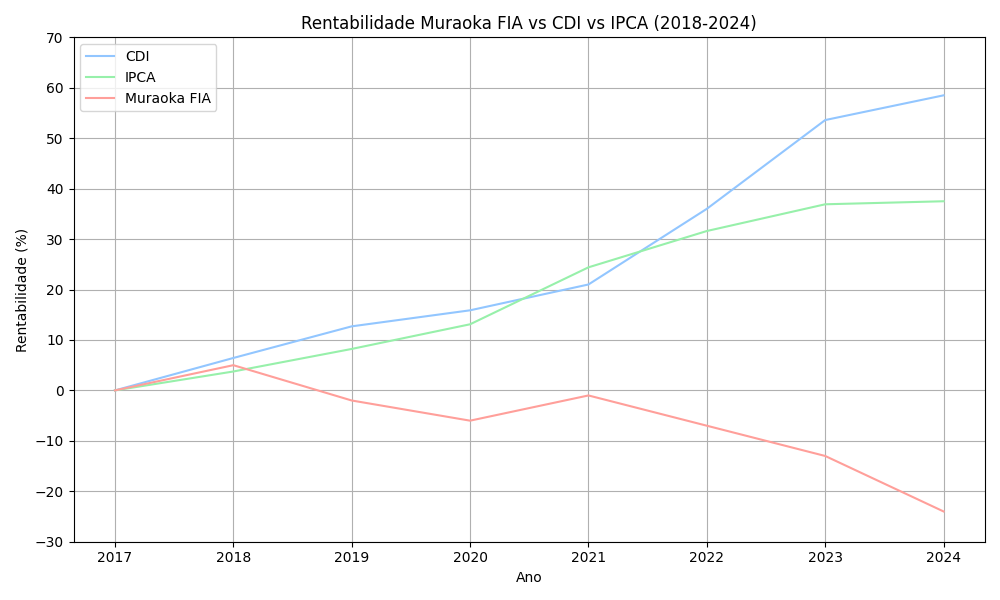
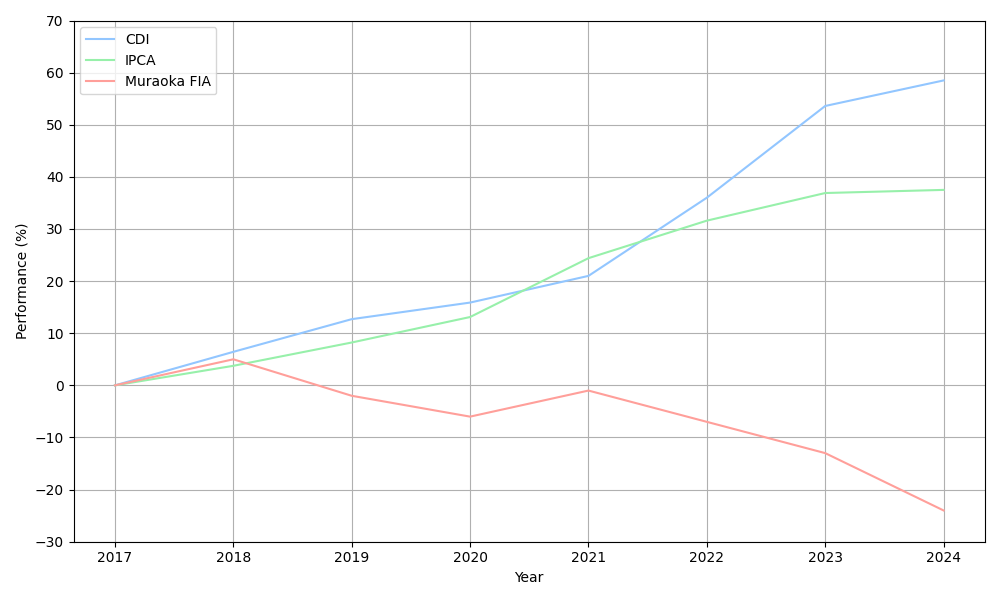
Finished Index

diff --git a/templates/index.html b/templates/index.html
@@ -17,9 +17,63 @@
     </p>
 
     <div>
-        <img src="{{ url_for('static', filename='images/Rentabilidade.png')}}" class="graficorentabilidade" alt="Rentabilidade do fundo">
+        <div>
+            <h2 class="titulo-grafico"> Fund performance against brazilian benchmarks (CDI and IPCA) </h2>
+        </div>
+        <div>
+            <img src="{{ url_for('static', filename='images/Rentabilidade.png')}}" class="graficorentabilidade" alt="Rentabilidade do fundo">
+        </div>
     </div>
 
+    <div class="desc">
+        <p class="pindex">
+            This investment fund target excellent brazilians companies listed at Bovespa, always seeking a good balance between risk and returns, even though high yields
+            investment is in our blood and our phylosophy. Muraoka FIA gathers the most famous and prestigious institutions in Brazil and brings this diversification
+            to the average-customer. As Peter Lynch said - "Its better to make a good deal in a good price than an excellent deal in a bad price", and taking his advice, 
+            our fund is recommended by analysts due to the fact we are currently at the All Time Low, just waiting for the expected turn-around. As it shows, the current
+            performance couldn't beat both the benchmarks, so our analysts team are willingfull to share the following message to all those interested:
+        </p>
+    </div>
+
+    <div class="desc">
+        <p class="pindex">
+            <div style="text-align: center;"> " The performance is a detail, sometimes it is more about the journey than anything else, we trust the companies, we trust the process, we trust in miracles after all. " </div>
+            <div style="text-align: center;"> " We are expecting to get better results as soon as the brazilian DI starts to receed, which has happened but not enought to help the narrative to grow "</div>
+            <div style="text-align: center;"> " We lost to both CDI and IPCA due to the fact that thwy never performance at negative rates, so it's basically impossible to beat an enemy who never loses "</div>
+            <div style="text-align: center; margin-top: 30px;"> - Victor Rafael Muraoka, INTERN and HEAD of analysts Dept. 
+        </p>
+    </div>
+
+    <div>
+        <h2 class="titulo-grafico"> Our Portfolio! </h2>
+    </div>
+
+    <div id="carouselExampleIndicators" class="carousel slide" data-ride="carousel" style="width: 60%; max-width: fit-content; margin-left: auto; margin-right: auto;">
+        <ol class="carousel-indicators">
+          <li data-target="#carouselExampleIndicators" data-slide-to="0" class="active"></li>
+          <li data-target="#carouselExampleIndicators" data-slide-to="1"></li>
+          <li data-target="#carouselExampleIndicators" data-slide-to="2"></li>
+        </ol>
+        <div class="carousel-inner" style="height: 450px;">
+          <div class="carousel-item active">
+            <img class="d-block w-100" src="{{ url_for('static', filename='images/companies/OIBR3.png')}}" alt="First slide">
+          </div>
+          <div class="carousel-item">
+            <img class="d-block w-100" src="{{ url_for('static', filename='images/companies/MGLU3.png')}}" alt="Second slide">
+          </div>
+          <div class="carousel-item">
+            <img class="d-block w-100" src="{{ url_for('static', filename='images/companies/BHIA3.png')}}" alt="Third slide">
+          </div>
+        </div>
+        <a class="carousel-control-prev" href="#carouselExampleIndicators" role="button" data-slide="prev">
+          <span class="carousel-control-prev-icon" aria-hidden="true"></span>
+          <span class="sr-only">Previous</span>
+        </a>
+        <a class="carousel-control-next" href="#carouselExampleIndicators" role="button" data-slide="next">
+          <span class="carousel-control-next-icon" aria-hidden="true"></span>
+          <span class="sr-only">Next</span>
+        </a>
+      </div>
 
 
     {% endblock %}

diff --git a/templates/base.html b/templates/base.html
@@ -5,6 +5,7 @@
     <meta charset="UTF-8">
     <meta name="viewport" content="width=device-width, initial-scale=1.0">
     <title>Muraoka FIA</title>
+    <link rel="stylesheet" href="https://cdn.jsdelivr.net/npm/bootstrap@4.0.0/dist/css/bootstrap.min.css" integrity="sha384-Gn5384xqQ1aoWXA+058RXPxPg6fy4IWvTNh0E263XmFcJlSAwiGgFAW/dAiS6JXm" crossorigin="anonymous">
     <link href="https://cdn.jsdelivr.net/npm/bootstrap@5.3.3/dist/css/bootstrap.min.css" rel="stylesheet" integrity="sha384-QWTKZyjpPEjISv5WaRU9OFeRpok6YctnYmDr5pNlyT2bRjXh0JMhjY6hW+ALEwIH" crossorigin="anonymous">
     <script src="https://cdn.jsdelivr.net/npm/bootstrap@5.3.3/dist/js/bootstrap.bundle.min.js" integrity="sha384-YvpcrYf0tY3lHB60NNkmXc5s9fDVZLESaAA55NDzOxhy9GkcIdslK1eN7N6jIeHz" crossorigin="anonymous"></script>
     <link rel="stylesheet" href="{{ url_for('static', filename='style.css')}}">
@@ -12,6 +13,10 @@
     {% endblock %}
 </head>
 <body>
+    <script src="https://code.jquery.com/jquery-3.2.1.slim.min.js" integrity="sha384-KJ3o2DKtIkvYIK3UENzmM7KCkRr/rE9/Qpg6aAZGJwFDMVNA/GpGFF93hXpG5KkN" crossorigin="anonymous"></script>
+    <script src="https://cdn.jsdelivr.net/npm/popper.js@1.12.9/dist/umd/popper.min.js" integrity="sha384-ApNbgh9B+Y1QKtv3Rn7W3mgPxhU9K/ScQsAP7hUibX39j7fakFPskvXusvfa0b4Q" crossorigin="anonymous"></script>
+    <script src="https://cdn.jsdelivr.net/npm/bootstrap@4.0.0/dist/js/bootstrap.min.js" integrity="sha384-JZR6Spejh4U02d8jOt6vLEHfe/JQGiRRSQQxSfFWpi1MquVdAyjUar5+76PVCmYl" crossorigin="anonymous"></script>
+
     <nav class="navbar navbar-custom" style="background: #1a1e47;">
         <span style="margin-left: 15px;" > 
             <a href="/"> <img src="{{ url_for('static', filename='images/Logo.png')}}"> </a>

diff --git a/static/style.css b/static/style.css
@@ -4,7 +4,8 @@ body {
 
 .logonavbar {
     color: white;
-    font-family: 'EB Garamond';font-size: 22px;;
+    font-family: 'EB Garamond';
+    font-size: 22px;
 }
 
 .navbarinfo {
@@ -20,7 +21,7 @@ a {
     display: block;
     margin-left: auto;
     margin-right: auto;
-    margin-top: 1px;
+    margin-top: 15px;
     width: 80%;
     height: 500px;
     border-radius: 5px;
@@ -33,4 +34,23 @@ a {
     display: block;
     position:relative;
     margin: auto;
+}
+
+.titulo-grafico {
+    margin-top: 15px;
+    text-align: center;
+    font-family: 'EB Garamond'; 
+    font-size: 22px;
+}
+
+.pindex {
+    text-align: center;
+}
+
+.desc {
+    width: 60%;
+    max-width: fit-content;
+    margin-left: auto;
+    margin-right: auto;
+    margin-top: 50px;
 }

diff --git a/grafico.py b/grafico.py
@@ -18,9 +18,9 @@ plt.figure(figsize=(10, 6))
 plt.plot(anos, cdi, label='CDI')
 plt.plot(anos, ipca, label='IPCA')
 plt.plot(anos, fundo, label='Muraoka FIA')
-plt.xlabel('Ano')
-plt.ylabel('Rentabilidade (%)')
-plt.title('Rentabilidade Muraoka FIA vs CDI vs IPCA (2018-2024)')
+plt.xlabel('Year')
+plt.ylabel('Performance (%)')
+plt.title('')
 plt.xticks(anos)
 plt.yticks(range(-30, 71, 10))
 plt.grid(True)
